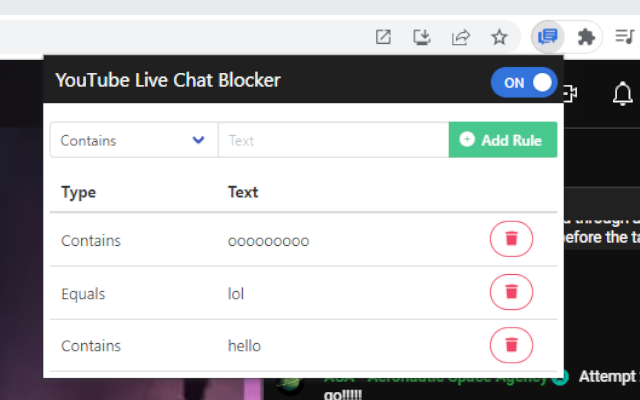
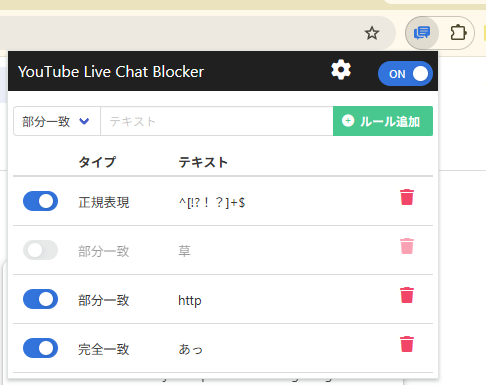
feat: add multi-language support, rule import/export functionality, and update documentation with screenshots

diff --git a/options.html b/options.html
@@ -94,11 +94,6 @@
                 <td>word is good, word</td>
               </tr>
               <tr>
-                <td><code data-i18n="helpRegexOneCharPattern">^a$</code></td>
-                <td data-i18n="helpRegexOneChar">Exactly the specific character 'a'</td>
-                <td data-i18n="helpRegexOneCharExample">a</td>
-              </tr>
-              <tr>
                 <td><code>apple|orange</code></td>
                 <td data-i18n="helpRegexOr">Contains either 'apple' or 'orange'</td>
                 <td>I like apple, orange juice</td>

diff --git a/README.md b/README.md
@@ -1,15 +1,32 @@
 # YouTube Live Chat Blocker
 
-An easy-to-use Google Chrome extension that hides unwanted words in YouTube Live and archived video chats.
+An easy-to-use Google Chrome extension that hides unwanted messages containing specific words in YouTube Live and archived video chats.
 
-## Features
+## ✨ Features
 
-Filtering conditions:
+- **3 Filtering Conditions**:
+  - **Contains (Partial match)**: Hides messages if they contain the specified word.
+  - **Equals (Exact match)**: Hides messages if they exactly match the specified word.
+  - **Regular expression**: Hides messages that match a custom regex pattern.
+- **Toggle Controls**:
+  - Quickly turn the entire blocker ON or OFF using the main global switch.
+  - Temporarily disable or enable individual rules without deleting them.
+- **Import / Export Rules**: Easily back up your filtering rules or transfer them to another device as a JSON file via the Options page.
+- **Multi-language Support (i18n)**: The interface automatically supports English and Japanese based on your browser settings.
 
-- Partial match: Hides messages if a part of the text matches a specified word.
-- Exact match: Hides messages if the text exactly matches a specified word.
-- Regular expression: Hides messages that match a specified pattern.
-
-## Screenshot
+## 📸 Screenshots
 
 ![](assets/screenshot1.png)
+
+## 🚀 How to Use
+
+1. Click the extension icon in your browser toolbar to open the popup window.
+2. Select the rule type (Contains, Equals, or Regular expression).
+3. Enter the text or pattern you want to block and click **Add Rule**.
+4. Matching chat messages will instantly be hidden from YouTube Live!
+5. Use the toggles to pause specific rules, or the main switch to pause the entire extension.
+6. Access the **Options page** (via the gear icon) to import or export your rule list.
+
+## 📄 License
+
+This project is open-source and licensed under the MIT License.
